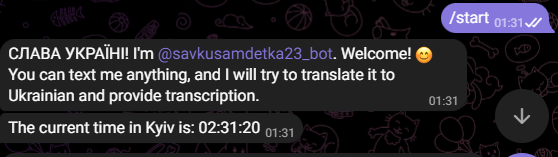
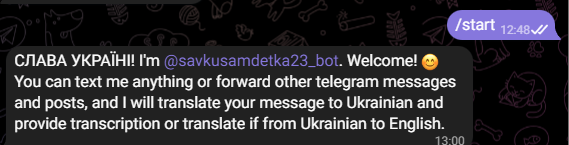
Add description and details about bot to README

diff --git a/cmd/kbot.go b/cmd/kbot.go
@@ -61,17 +61,10 @@ to quickly create a Cobra application.`,
 				switch strings.ToLower(m.Text()) {
 				case "/start":
 					// Send a welcome message and provide the current Kyiv time
-					welcomeMessage := "СЛАВА УКРАЇНІ! I'm @savkusamdetka23_bot. Welcome! 😊 You can text me anything, and I will try to translate it to Ukrainian and provide transcription."
-					currentTime := time.Now().In(time.FixedZone("Europe/Kiev", 2*60*60))
-					timeMessage := fmt.Sprintf("The current time in Kyiv is: %s", currentTime.Format("15:04:05"))
+					welcomeMessage := "СЛАВА УКРАЇНІ! I'm @savkusamdetka23_bot. Welcome! 😊 You can text me anything or forward other telegram messages and posts, and I will translate your message to Ukrainian and provide transcription or translate if from Ukrainian to English."
 					err := m.Send(welcomeMessage)
 					if err != nil {
 						log.Printf("Error sending welcome message: %v", err)
-						return err
-					}
-					err = m.Send(timeMessage)
-					if err != nil {
-						log.Printf("Error sending time message: %v", err)
 						return err
 					}
 

diff --git a/README.md b/README.md
@@ -1,9 +1,31 @@
 # kbot - devops application from scratch
 
-This telegram bot can translate your messages to Ukrainian and provide transliteration for it.
-## To start using this bot you need to send messages to t.me/savkusamdetka23_bot
+Hi! This repo is for telegram bot which can translate your messages or forwarded posts to Ukrainian and provide transliteration for it or translate it from Ukrainian to English.
+
+
+# Tech stack
+
+ - Code: Goland
+ - Golang framework for telegram bots-  "gopkg.in/telebot.v3"
+ - Framework for CLI interfaces: "github.com/spf13/cobra"
+ - Other packages: 
+ "github.com/bregydoc/gtranslate"
+"github.com/fre5h/transliteration-go"
+"golang.org/x/text/language"
+
+## Start using
+
+To start using this bot you need to send messages to t.me/savkusamdetka23_bot.
+
+### Initialization
+Just press start or type `/start`.
 ![Alt text](img/image.png)
-Just press start and start typing of forwarding posts and messages in English to receive a translation in Ukrainian with the transliteration. 
+
+
+### Translate to Ukrainian
+After initialization you can start typing or forwarding posts and messages in English to receive a translation in Ukrainian with the transliteration.
 ![Alt text](img/image-1.png)
-Also you can post or forward messages in Ukrainian to receive tranlation in English. 
-![Alt text](img/image-2.png)
+
+
+### Translate to English
+Also you can post or forward messages in Ukrainian to receive tranlation in English.![Alt text](img/image-2.png)
